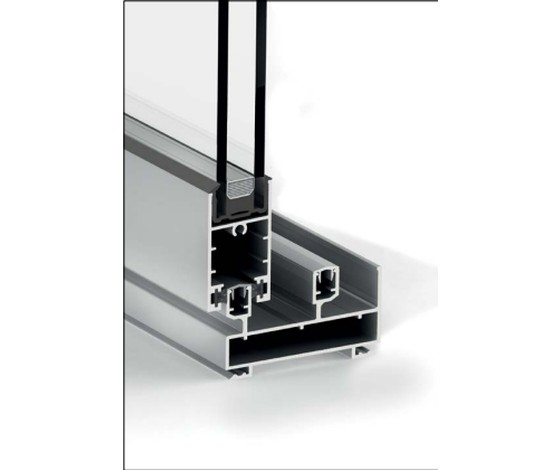
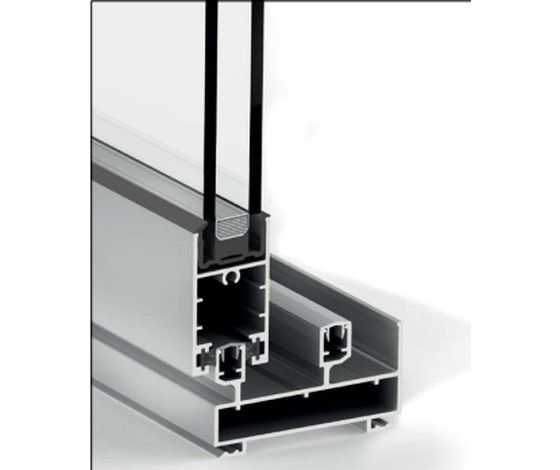
Cartouche STRUGAL dans l'en-tête + « distributeur officiel » sur tout le site

Changed region(s): [[0.1518, 0.0, 0.85, 1.0]]

diff --git a/notre-activite.html b/notre-activite.html
@@ -32,7 +32,7 @@
   "@type": "FAQPage",
   "mainEntity": [
     {"@type": "Question", "name": "Depuis combien de temps PROMPOLU exerce-t-il ?", "acceptedAnswer": {"@type": "Answer", "text": "PROMPOLU ALUMINIUM compte plus de 18 ans d'expérience dans la fourniture de matière première aluminium aux menuisiers et fabricants de la région de Fès."}},
-    {"@type": "Question", "name": "Qu'est-ce que STRUGAL ?", "acceptedAnswer": {"@type": "Answer", "text": "STRUGAL est un fabricant espagnol de systèmes aluminium pour la menuiserie, testés aux normes européennes EN 12207, EN 12208 et EN 12210. PROMPOLU en est le distributeur agréé, avec son point de distribution sous convention STRUGAL à Sefrou et son magasin historique à Fès."}},
+    {"@type": "Question", "name": "Qu'est-ce que STRUGAL ?", "acceptedAnswer": {"@type": "Answer", "text": "STRUGAL est un fabricant espagnol de systèmes aluminium pour la menuiserie, testés aux normes européennes EN 12207, EN 12208 et EN 12210. PROMPOLU en est le distributeur officiel, avec son point de distribution sous convention STRUGAL à Sefrou et son magasin historique à Fès."}},
     {"@type": "Question", "name": "PROMPOLU travaille-t-il avec des particuliers ou uniquement des professionnels ?", "acceptedAnswer": {"@type": "Answer", "text": "PROMPOLU fournit de la matière première aluminium principalement aux menuisiers et fabricants, qui réalisent ensuite les ouvrages finis pour leurs propres clients."}}
   ]
 }
@@ -45,7 +45,7 @@
       "@type": "Organization",
       "@id": "https://prompolu.com/#organization",
       "name": "PROMPOLU ALUMINIUM",
-      "description": "Entreprise fassie, distributeur agréé STRUGAL : profilés et systèmes aluminium pour coulissants, fenêtres et portes battantes, agencement intérieur, garde-corps, volets roulants et pergolas, destinés aux menuisiers et fabricants. Magasin historique à Fès, point de distribution sous convention STRUGAL à Sefrou.",
+      "description": "Entreprise fassie, distributeur officiel STRUGAL : profilés et systèmes aluminium pour coulissants, fenêtres et portes battantes, agencement intérieur, garde-corps, volets roulants et pergolas, destinés aux menuisiers et fabricants. Magasin historique à Fès, point de distribution sous convention STRUGAL à Sefrou.",
       "url": "https://prompolu.com/",
       "logo": "https://prompolu.com/assets/logo-prompolu.png",
       "image": "https://prompolu.com/assets/logo-prompolu.png",
@@ -130,7 +130,13 @@
 
 <header class="site">
   <div class="wrap">
-    <a href="/index.html" class="logo-mark"><img src="/assets/logo-prompolu.png" alt="PROMPOLU ALUMINIUM" width="150" height="21"></a>
+    <div class="brand">
+      <a href="/index.html" class="logo-mark"><img src="/assets/logo-prompolu.png" alt="PROMPOLU ALUMINIUM" width="150" height="21"></a>
+      <span class="partner-badge">
+        <span class="lbl">Distributeur<br>officiel</span>
+        <img src="/assets/logo-strugal.png" alt="STRUGAL" width="149" height="38">
+      </span>
+    </div>
     <nav class="main" id="mainNav">
       <a href="/coulissants.html">Coulissants</a>
       <a href="/battants.html">Battants</a>
@@ -161,9 +167,9 @@
   <section id="histoire">
     <div class="wrap">
       <article class="post">
-        <h2>Une maison de Fès, distributeur agréé STRUGAL</h2>
+        <h2>Une maison de Fès, distributeur officiel STRUGAL</h2>
         <p>PROMPOLU ALUMINIUM est une entreprise fassie. Elle accompagne depuis plus de 18 ans les menuisiers et fabricants de la région en leur fournissant des profilés et systèmes aluminium en matière première, depuis son magasin historique de l'Av. Moulay Rachid, à Fès.</p>
-        <p>En tant que distributeur agréé de la marque espagnole STRUGAL, PROMPOLU donne accès à des systèmes aluminium testés aux normes européennes EN 12207 (perméabilité à l'air), EN 12208 (étanchéité à l'eau) et EN 12210 (résistance au vent). <strong>Notre point de distribution en convention avec STRUGAL se trouve à Sefrou</strong>, Route Sidi Boumdine — la gamme reste disponible dans nos deux magasins, aux mêmes conditions.</p>
+        <p>En tant que distributeur officiel de la marque espagnole STRUGAL, PROMPOLU donne accès à des systèmes aluminium testés aux normes européennes EN 12207 (perméabilité à l'air), EN 12208 (étanchéité à l'eau) et EN 12210 (résistance au vent). <strong>Notre point de distribution en convention avec STRUGAL se trouve à Sefrou</strong>, Route Sidi Boumdine — la gamme reste disponible dans nos deux magasins, aux mêmes conditions.</p>
         <p>Notre catalogue couvre l'ensemble des besoins d'un atelier de menuiserie aluminium : systèmes coulissants du résidentiel au grand format architectural, profilés d'agencement intérieur pour cuisines et dressings, et solutions extérieures pour la sécurité et le confort — garde-corps, volets roulants et pergolas.</p>
 
         <h2>Notre positionnement : la matière première, pas l'ouvrage fini</h2>
@@ -190,7 +196,7 @@
         </details>
         <details class="faq-item">
           <summary>Qu'est-ce que STRUGAL ?<span class="q-mark">+</span></summary>
-          <p class="faq-a">STRUGAL est un fabricant espagnol de systèmes aluminium pour la menuiserie, testés aux normes européennes EN 12207, EN 12208 et EN 12210. PROMPOLU en est le distributeur agréé, avec son point de distribution sous convention STRUGAL à Sefrou et son magasin historique à Fès.</p>
+          <p class="faq-a">STRUGAL est un fabricant espagnol de systèmes aluminium pour la menuiserie, testés aux normes européennes EN 12207, EN 12208 et EN 12210. PROMPOLU en est le distributeur officiel, avec son point de distribution sous convention STRUGAL à Sefrou et son magasin historique à Fès.</p>
         </details>
         <details class="faq-item">
           <summary>PROMPOLU travaille-t-il avec des particuliers ou uniquement des professionnels ?<span class="q-mark">+</span></summary>

diff --git a/index.html b/index.html
@@ -3,11 +3,11 @@
 <head>
 <meta charset="UTF-8">
 <meta name="viewport" content="width=device-width, initial-scale=1.0">
-<title>PROMPOLU ALUMINIUM — Distributeur agréé STRUGAL à Fès</title>
+<title>PROMPOLU ALUMINIUM — Distributeur officiel STRUGAL à Fès</title>
 <meta name="description" content="Grossiste en profilés aluminium STRUGAL à Fès, point de distribution à Sefrou : coulissants, battants, agencement, garde-corps, pergolas. 18 ans d'expérience.">
 <link rel="canonical" href="https://prompolu.com/">
 <meta property="og:type" content="website">
-<meta property="og:title" content="PROMPOLU ALUMINIUM — Distributeur agréé STRUGAL à Fès">
+<meta property="og:title" content="PROMPOLU ALUMINIUM — Distributeur officiel STRUGAL à Fès">
 <meta property="og:description" content="Profilés et systèmes aluminium STRUGAL pour menuisiers et fabricants, à Fès et à Sefrou : coulissants, agencement intérieur, garde-corps, volets roulants, pergolas.">
 <meta property="og:url" content="https://prompolu.com/">
 <meta property="og:image" content="https://prompolu.com/assets/logo-prompolu.png">
@@ -24,7 +24,7 @@
       "@type": "Organization",
       "@id": "https://prompolu.com/#organization",
       "name": "PROMPOLU ALUMINIUM",
-      "description": "Entreprise fassie, distributeur agréé STRUGAL : profilés et systèmes aluminium pour coulissants, fenêtres et portes battantes, agencement intérieur, garde-corps, volets roulants et pergolas, destinés aux menuisiers et fabricants. Magasin historique à Fès, point de distribution sous convention STRUGAL à Sefrou.",
+      "description": "Entreprise fassie, distributeur officiel STRUGAL : profilés et systèmes aluminium pour coulissants, fenêtres et portes battantes, agencement intérieur, garde-corps, volets roulants et pergolas, destinés aux menuisiers et fabricants. Magasin historique à Fès, point de distribution sous convention STRUGAL à Sefrou.",
       "url": "https://prompolu.com/",
       "logo": "https://prompolu.com/assets/logo-prompolu.png",
       "image": "https://prompolu.com/assets/logo-prompolu.png",
@@ -109,7 +109,13 @@
 
 <header class="site">
   <div class="wrap">
-    <a href="/index.html" class="logo-mark"><img src="/assets/logo-prompolu.png" alt="PROMPOLU ALUMINIUM" width="150" height="21"></a>
+    <div class="brand">
+      <a href="/index.html" class="logo-mark"><img src="/assets/logo-prompolu.png" alt="PROMPOLU ALUMINIUM" width="150" height="21"></a>
+      <span class="partner-badge">
+        <span class="lbl">Distributeur<br>officiel</span>
+        <img src="/assets/logo-strugal.png" alt="STRUGAL" width="149" height="38">
+      </span>
+    </div>
     <nav class="main" id="mainNav">
       <a href="/coulissants.html">Coulissants</a>
       <a href="/battants.html">Battants</a>
@@ -140,7 +146,7 @@
 
   <div class="partner-strip">
     <div class="wrap">
-      <span class="plabel">Distributeur agréé</span>
+      <span class="plabel">Distributeur officiel</span>
       <img src="/assets/logo-strugal.png" alt="STRUGAL" width="90" height="23">
       <span class="plabel">— systèmes aluminium espagnols testés aux normes européennes EN 12207 / 12208 / 12210. Point de distribution sous convention à Sefrou.</span>
     </div>
@@ -191,7 +197,7 @@
         </div>
         <div class="adv">
           <span class="adv-mark mono">STRUGAL</span>
-          <h3>Fournisseur agréé</h3>
+          <h3>Distributeur officiel</h3>
           <p>Accès aux systèmes aluminium espagnols STRUGAL, testés aux normes européennes.</p>
         </div>
         <div class="adv">

diff --git a/contact.html b/contact.html
@@ -8,7 +8,7 @@
 <link rel="canonical" href="https://prompolu.com/contact.html">
 <meta property="og:type" content="website">
 <meta property="og:title" content="Contact & devis — PROMPOLU ALUMINIUM Fès et Sefrou">
-<meta property="og:description" content="Adresses, plans d'accès et horaires des deux magasins PROMPOLU ALUMINIUM, distributeur agréé STRUGAL à Fès et Sefrou.">
+<meta property="og:description" content="Adresses, plans d'accès et horaires des deux magasins PROMPOLU ALUMINIUM, distributeur officiel STRUGAL à Fès et Sefrou.">
 <meta property="og:url" content="https://prompolu.com/contact.html">
 <meta property="og:image" content="https://prompolu.com/assets/logo-prompolu.png">
 <meta property="og:locale" content="fr_MA">
@@ -47,7 +47,7 @@
       "@type": "Organization",
       "@id": "https://prompolu.com/#organization",
       "name": "PROMPOLU ALUMINIUM",
-      "description": "Entreprise fassie, distributeur agréé STRUGAL : profilés et systèmes aluminium pour coulissants, fenêtres et portes battantes, agencement intérieur, garde-corps, volets roulants et pergolas, destinés aux menuisiers et fabricants. Magasin historique à Fès, point de distribution sous convention STRUGAL à Sefrou.",
+      "description": "Entreprise fassie, distributeur officiel STRUGAL : profilés et systèmes aluminium pour coulissants, fenêtres et portes battantes, agencement intérieur, garde-corps, volets roulants et pergolas, destinés aux menuisiers et fabricants. Magasin historique à Fès, point de distribution sous convention STRUGAL à Sefrou.",
       "url": "https://prompolu.com/",
       "logo": "https://prompolu.com/assets/logo-prompolu.png",
       "image": "https://prompolu.com/assets/logo-prompolu.png",
@@ -132,7 +132,13 @@
 
 <header class="site">
   <div class="wrap">
-    <a href="/index.html" class="logo-mark"><img src="/assets/logo-prompolu.png" alt="PROMPOLU ALUMINIUM" width="150" height="21"></a>
+    <div class="brand">
+      <a href="/index.html" class="logo-mark"><img src="/assets/logo-prompolu.png" alt="PROMPOLU ALUMINIUM" width="150" height="21"></a>
+      <span class="partner-badge">
+        <span class="lbl">Distributeur<br>officiel</span>
+        <img src="/assets/logo-strugal.png" alt="STRUGAL" width="149" height="38">
+      </span>
+    </div>
     <nav class="main" id="mainNav">
       <a href="/coulissants.html">Coulissants</a>
       <a href="/battants.html">Battants</a>

diff --git a/assets/style.css b/assets/style.css
@@ -68,8 +68,18 @@
     display:flex;align-items:center;justify-content:space-between;
     padding:16px 28px;
   }
-  .logo-mark{margin-right:32px;}
-  .logo-mark img{height:26px;width:auto;}
+  .brand{display:flex;align-items:center;gap:14px;margin-right:30px;}
+  .logo-mark{display:block;}
+  .logo-mark img{height:26px;width:auto;display:block;}
+  .partner-badge{
+    display:flex;align-items:center;gap:9px;
+    border:1px solid var(--line);background:#fff;padding:6px 11px;
+  }
+  .partner-badge .lbl{
+    font-family:'IBM Plex Mono', monospace;font-size:8px;letter-spacing:.07em;
+    text-transform:uppercase;color:var(--bronze-dark);line-height:1.25;
+  }
+  .partner-badge img{height:12px;width:auto;display:block;}
   nav.main{display:flex;align-items:center;gap:34px;}
   nav.main a{
     font-size:14.5px;font-weight:500;color:var(--ink);
@@ -245,6 +255,12 @@
   }
 
   /* responsive */
+  @media (max-width:1120px){
+    /* la mention prend trop de place quand le menu complet est affiche */
+    .partner-badge .lbl{display:none;}
+    .partner-badge{padding:6px 10px;}
+    .brand{gap:12px;}
+  }
   @media (max-width:900px){
     .cat-grid.two, .cat-grid.three{grid-template-columns:1fr;}
     .adv-grid{grid-template-columns:repeat(3,1fr);}
@@ -266,6 +282,14 @@
     .adv-grid{grid-template-columns:1fr;}
     .adv{border-bottom:1px solid var(--line);}
     .topbar .wrap{font-size:11px;}
+  }
+  @media (max-width:480px){
+    /* laisser respirer le logo et le cartouche a cote du bouton menu */
+    .logo-mark img{height:22px;}
+    .partner-badge{padding:5px 8px;}
+    .partner-badge img{height:11px;}
+    .brand{gap:10px;margin-right:12px;}
+    header.site .wrap{padding:14px 20px;}
   }
 
 /* ============================================================

diff --git a/agencement.html b/agencement.html
@@ -47,7 +47,7 @@
       "@type": "Organization",
       "@id": "https://prompolu.com/#organization",
       "name": "PROMPOLU ALUMINIUM",
-      "description": "Entreprise fassie, distributeur agréé STRUGAL : profilés et systèmes aluminium pour coulissants, fenêtres et portes battantes, agencement intérieur, garde-corps, volets roulants et pergolas, destinés aux menuisiers et fabricants. Magasin historique à Fès, point de distribution sous convention STRUGAL à Sefrou.",
+      "description": "Entreprise fassie, distributeur officiel STRUGAL : profilés et systèmes aluminium pour coulissants, fenêtres et portes battantes, agencement intérieur, garde-corps, volets roulants et pergolas, destinés aux menuisiers et fabricants. Magasin historique à Fès, point de distribution sous convention STRUGAL à Sefrou.",
       "url": "https://prompolu.com/",
       "logo": "https://prompolu.com/assets/logo-prompolu.png",
       "image": "https://prompolu.com/assets/logo-prompolu.png",
@@ -132,7 +132,13 @@
 
 <header class="site">
   <div class="wrap">
-    <a href="/index.html" class="logo-mark"><img src="/assets/logo-prompolu.png" alt="PROMPOLU ALUMINIUM" width="150" height="21"></a>
+    <div class="brand">
+      <a href="/index.html" class="logo-mark"><img src="/assets/logo-prompolu.png" alt="PROMPOLU ALUMINIUM" width="150" height="21"></a>
+      <span class="partner-badge">
+        <span class="lbl">Distributeur<br>officiel</span>
+        <img src="/assets/logo-strugal.png" alt="STRUGAL" width="149" height="38">
+      </span>
+    </div>
     <nav class="main" id="mainNav">
       <a href="/coulissants.html">Coulissants</a>
       <a href="/battants.html">Battants</a>

diff --git a/battants.html b/battants.html
@@ -60,7 +60,7 @@
       "@type": "Organization",
       "@id": "https://prompolu.com/#organization",
       "name": "PROMPOLU ALUMINIUM",
-      "description": "Entreprise fassie, distributeur agréé STRUGAL : profilés et systèmes aluminium pour coulissants, fenêtres et portes battantes, agencement intérieur, garde-corps, volets roulants et pergolas, destinés aux menuisiers et fabricants. Magasin historique à Fès, point de distribution sous convention STRUGAL à Sefrou.",
+      "description": "Entreprise fassie, distributeur officiel STRUGAL : profilés et systèmes aluminium pour coulissants, fenêtres et portes battantes, agencement intérieur, garde-corps, volets roulants et pergolas, destinés aux menuisiers et fabricants. Magasin historique à Fès, point de distribution sous convention STRUGAL à Sefrou.",
       "url": "https://prompolu.com/",
       "logo": "https://prompolu.com/assets/logo-prompolu.png",
       "image": "https://prompolu.com/assets/logo-prompolu.png",
@@ -145,7 +145,13 @@
 
 <header class="site">
   <div class="wrap">
-    <a href="/index.html" class="logo-mark"><img src="/assets/logo-prompolu.png" alt="PROMPOLU ALUMINIUM" width="150" height="21"></a>
+    <div class="brand">
+      <a href="/index.html" class="logo-mark"><img src="/assets/logo-prompolu.png" alt="PROMPOLU ALUMINIUM" width="150" height="21"></a>
+      <span class="partner-badge">
+        <span class="lbl">Distributeur<br>officiel</span>
+        <img src="/assets/logo-strugal.png" alt="STRUGAL" width="149" height="38">
+      </span>
+    </div>
     <nav class="main" id="mainNav">
       <a href="/coulissants.html">Coulissants</a>
       <a href="/battants.html">Battants</a>

diff --git a/conseils/guide-choisir-systeme-coulissant-aluminium.html b/conseils/guide-choisir-systeme-coulissant-aluminium.html
@@ -64,7 +64,7 @@
       "@type": "Organization",
       "@id": "https://prompolu.com/#organization",
       "name": "PROMPOLU ALUMINIUM",
-      "description": "Entreprise fassie, distributeur agréé STRUGAL : profilés et systèmes aluminium pour coulissants, fenêtres et portes battantes, agencement intérieur, garde-corps, volets roulants et pergolas, destinés aux menuisiers et fabricants. Magasin historique à Fès, point de distribution sous convention STRUGAL à Sefrou.",
+      "description": "Entreprise fassie, distributeur officiel STRUGAL : profilés et systèmes aluminium pour coulissants, fenêtres et portes battantes, agencement intérieur, garde-corps, volets roulants et pergolas, destinés aux menuisiers et fabricants. Magasin historique à Fès, point de distribution sous convention STRUGAL à Sefrou.",
       "url": "https://prompolu.com/",
       "logo": "https://prompolu.com/assets/logo-prompolu.png",
       "image": "https://prompolu.com/assets/logo-prompolu.png",
@@ -149,7 +149,13 @@
 
 <header class="site">
   <div class="wrap">
-    <a href="/index.html" class="logo-mark"><img src="/assets/logo-prompolu.png" alt="PROMPOLU ALUMINIUM" width="150" height="21"></a>
+    <div class="brand">
+      <a href="/index.html" class="logo-mark"><img src="/assets/logo-prompolu.png" alt="PROMPOLU ALUMINIUM" width="150" height="21"></a>
+      <span class="partner-badge">
+        <span class="lbl">Distributeur<br>officiel</span>
+        <img src="/assets/logo-strugal.png" alt="STRUGAL" width="149" height="38">
+      </span>
+    </div>
     <nav class="main" id="mainNav">
       <a href="/coulissants.html">Coulissants</a>
       <a href="/battants.html">Battants</a>

diff --git a/conseils/index.html b/conseils/index.html
@@ -34,7 +34,7 @@
       "@type": "Organization",
       "@id": "https://prompolu.com/#organization",
       "name": "PROMPOLU ALUMINIUM",
-      "description": "Entreprise fassie, distributeur agréé STRUGAL : profilés et systèmes aluminium pour coulissants, fenêtres et portes battantes, agencement intérieur, garde-corps, volets roulants et pergolas, destinés aux menuisiers et fabricants. Magasin historique à Fès, point de distribution sous convention STRUGAL à Sefrou.",
+      "description": "Entreprise fassie, distributeur officiel STRUGAL : profilés et systèmes aluminium pour coulissants, fenêtres et portes battantes, agencement intérieur, garde-corps, volets roulants et pergolas, destinés aux menuisiers et fabricants. Magasin historique à Fès, point de distribution sous convention STRUGAL à Sefrou.",
       "url": "https://prompolu.com/",
       "logo": "https://prompolu.com/assets/logo-prompolu.png",
       "image": "https://prompolu.com/assets/logo-prompolu.png",
@@ -119,7 +119,13 @@
 
 <header class="site">
   <div class="wrap">
-    <a href="/index.html" class="logo-mark"><img src="/assets/logo-prompolu.png" alt="PROMPOLU ALUMINIUM" width="150" height="21"></a>
+    <div class="brand">
+      <a href="/index.html" class="logo-mark"><img src="/assets/logo-prompolu.png" alt="PROMPOLU ALUMINIUM" width="150" height="21"></a>
+      <span class="partner-badge">
+        <span class="lbl">Distributeur<br>officiel</span>
+        <img src="/assets/logo-strugal.png" alt="STRUGAL" width="149" height="38">
+      </span>
+    </div>
     <nav class="main" id="mainNav">
       <a href="/coulissants.html">Coulissants</a>
       <a href="/battants.html">Battants</a>

diff --git a/coulissants.html b/coulissants.html
@@ -69,7 +69,7 @@
       "@type": "Organization",
       "@id": "https://prompolu.com/#organization",
       "name": "PROMPOLU ALUMINIUM",
-      "description": "Entreprise fassie, distributeur agréé STRUGAL : profilés et systèmes aluminium pour coulissants, fenêtres et portes battantes, agencement intérieur, garde-corps, volets roulants et pergolas, destinés aux menuisiers et fabricants. Magasin historique à Fès, point de distribution sous convention STRUGAL à Sefrou.",
+      "description": "Entreprise fassie, distributeur officiel STRUGAL : profilés et systèmes aluminium pour coulissants, fenêtres et portes battantes, agencement intérieur, garde-corps, volets roulants et pergolas, destinés aux menuisiers et fabricants. Magasin historique à Fès, point de distribution sous convention STRUGAL à Sefrou.",
       "url": "https://prompolu.com/",
       "logo": "https://prompolu.com/assets/logo-prompolu.png",
       "image": "https://prompolu.com/assets/logo-prompolu.png",
@@ -154,7 +154,13 @@
 
 <header class="site">
   <div class="wrap">
-    <a href="/index.html" class="logo-mark"><img src="/assets/logo-prompolu.png" alt="PROMPOLU ALUMINIUM" width="150" height="21"></a>
+    <div class="brand">
+      <a href="/index.html" class="logo-mark"><img src="/assets/logo-prompolu.png" alt="PROMPOLU ALUMINIUM" width="150" height="21"></a>
+      <span class="partner-badge">
+        <span class="lbl">Distributeur<br>officiel</span>
+        <img src="/assets/logo-strugal.png" alt="STRUGAL" width="149" height="38">
+      </span>
+    </div>
     <nav class="main" id="mainNav">
       <a href="/coulissants.html">Coulissants</a>
       <a href="/battants.html">Battants</a>

diff --git a/exterieur.html b/exterieur.html
@@ -47,7 +47,7 @@
       "@type": "Organization",
       "@id": "https://prompolu.com/#organization",
       "name": "PROMPOLU ALUMINIUM",
-      "description": "Entreprise fassie, distributeur agréé STRUGAL : profilés et systèmes aluminium pour coulissants, fenêtres et portes battantes, agencement intérieur, garde-corps, volets roulants et pergolas, destinés aux menuisiers et fabricants. Magasin historique à Fès, point de distribution sous convention STRUGAL à Sefrou.",
+      "description": "Entreprise fassie, distributeur officiel STRUGAL : profilés et systèmes aluminium pour coulissants, fenêtres et portes battantes, agencement intérieur, garde-corps, volets roulants et pergolas, destinés aux menuisiers et fabricants. Magasin historique à Fès, point de distribution sous convention STRUGAL à Sefrou.",
       "url": "https://prompolu.com/",
       "logo": "https://prompolu.com/assets/logo-prompolu.png",
       "image": "https://prompolu.com/assets/logo-prompolu.png",
@@ -132,7 +132,13 @@
 
 <header class="site">
   <div class="wrap">
-    <a href="/index.html" class="logo-mark"><img src="/assets/logo-prompolu.png" alt="PROMPOLU ALUMINIUM" width="150" height="21"></a>
+    <div class="brand">
+      <a href="/index.html" class="logo-mark"><img src="/assets/logo-prompolu.png" alt="PROMPOLU ALUMINIUM" width="150" height="21"></a>
+      <span class="partner-badge">
+        <span class="lbl">Distributeur<br>officiel</span>
+        <img src="/assets/logo-strugal.png" alt="STRUGAL" width="149" height="38">
+      </span>
+    </div>
     <nav class="main" id="mainNav">
       <a href="/coulissants.html">Coulissants</a>
       <a href="/battants.html">Battants</a>
